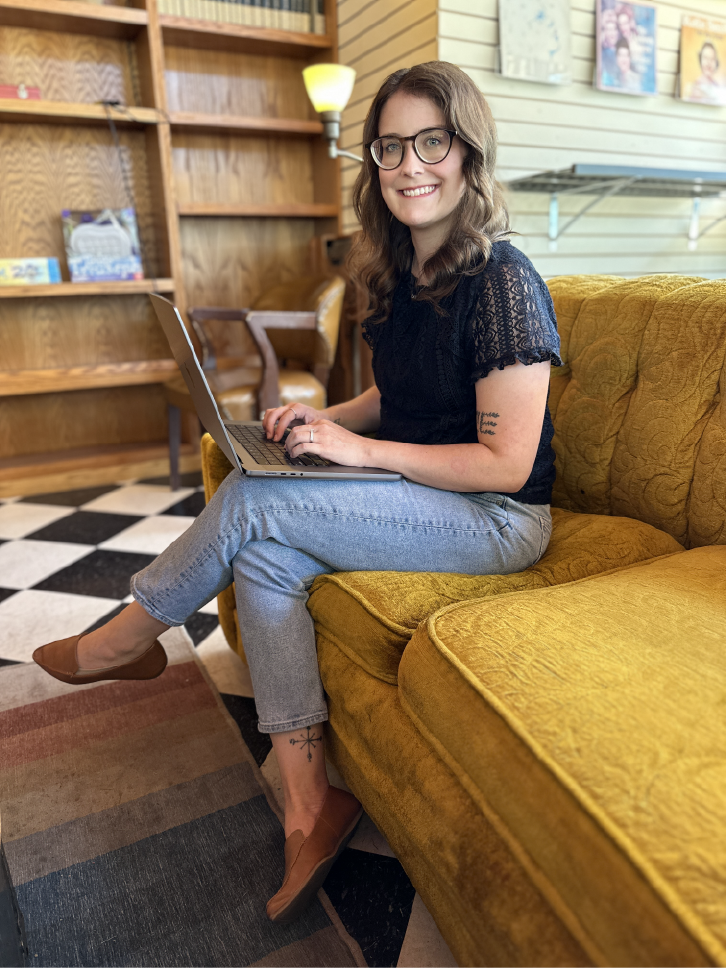
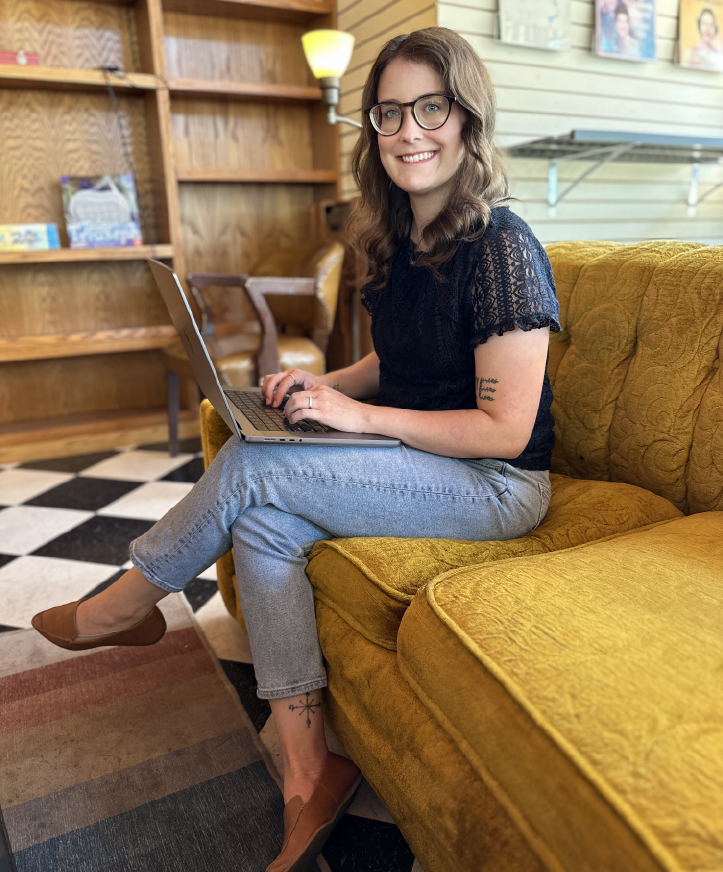
Styled headshot for mobile, tablet, and desktop

diff --git a/public/index.html b/public/index.html
@@ -43,9 +43,9 @@
         <div class="content-wrapper">
           <nav>
             <ul>
-              <li id="projects"><a href="#project-heading">Projects</a></li>
+              <li id="projects"><a href="#projects-heading">Projects</a></li>
               <li id="skills"><a href="#skill-heading">Skills</a></li>
-              <li id="about"><a href="#about-heading">About</a></li>
+              <li id="about"><a href="#headshot">About</a></li>
               <li id="contact"><a href="#contact-heading">Contact Me</a></li>
             </ul>
           </nav>
@@ -95,23 +95,27 @@
       </section>
       <section class="about-container"> 
         <div class="content-wrapper">
-         <img src="/img/portfolio-picture.png" alt="Maggi sitting on a yellow couch working on her laptop">
+        <div class="about-img" id="headshot">
+          <img src="/img/portfolio-picture.png" alt="Maggi sitting on a yellow couch working on her laptop">
+         </div>
+         <div class="about-text">
           <h3 id="about-heading">Hey! I'm Maggi.</h3>
           <h4>
             I'm a Front End Web Developer who loves to create impactful and
             responsive websites.
           </h4>
           <p class="bio">
-            I went to school to become an elementary teacher. When I graduated,
+            I originally went to school to become an elementary teacher. When I graduated,
             I realized that my real passion is in tech. I want to make a
             difference in the world and web development is a place I can do that
-            through creating beautiful and meaningful websites. I live in NoCo
+            through creating beautiful and meaningful websites. I live in Northern Colorado
             with my husband and three dogs. When I'm not coding, you can find me
-            hanging with my dogs, watching a movie, or spending time with my
+            hanging with my dogs, nose deep in a book, or spending time with my
             friends and family.
           </p>
           <p class="sentiment">I'm looking forward to working with you!</p>
         </div>
+      </div> 
       </section>
       <footer class="contact-container">
         <div class="content-wrapper">

diff --git a/src/index.css b/src/index.css
@@ -119,6 +119,9 @@ h2 {
 .about-container {
   padding-top: 80px;
 }
+.about-container img {
+  width: 70%;
+}
 .about-container h3 {
   font-family: "Alike", serif;
   font-size: 1.8em;
@@ -239,6 +242,9 @@ h2 {
   .about-container {
     padding-top: 120px;
   }
+  .about-container img {
+    width: 50%;
+  }
   .about-container h3 {
     font-size: 2em;
     padding: 80px;
@@ -294,7 +300,7 @@ h2 {
 /*===Desktop Styles===*/
 @media only screen and (min-width: 1200px) {
   /*---Header Styles---*/
-  header header nav {
+  header nav {
     padding: 0 80px;
     justify-content: flex-end;
   }
@@ -339,19 +345,32 @@ h2 {
   .about-container {
     padding-top: 140px;
   }
+  .about-container .content-wrapper {
+    display: flex;
+    align-items: center;
+    justify-content: center;
+    padding: 0 50px 160px 50px;
+  }
+  .about-text {
+    width: 50%;
+  }
+  .about-container img {
+    width: 90%;
+  }
   .about-container h3 {
     font-size: 2.5em;
-    padding: 40px;
+    padding: 0 0 40px 0;
+    text-align: left;
   }
   .about-container h4 {
     font-size: 1.8em;
-    padding: 0 80px 60px 80px;
+    padding: 0 0 60px 0;
   }
   .about-container p.bio {
-    padding: 0 80px 30px 80px;
+    padding: 0 0 30px 0;
   }
   .about-container p.sentiment {
-    padding: 0 80px 160px 80px;
+    padding: 0;
   }
 
   /*---Contact Section Styles---*/
